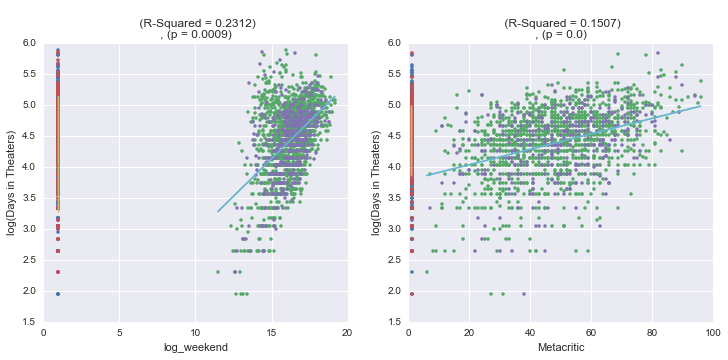
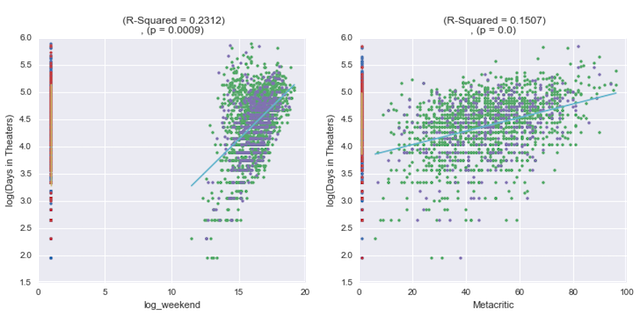
new sizes

Changed region(s): [[0.375, 0.4557, 0.4375, 0.4842]]

diff --git a/_posts/2016-1-29-Some-Movies-Stay-in-Theaters.md b/_posts/2016-1-29-Some-Movies-Stay-in-Theaters.md
@@ -5,8 +5,6 @@ title: Some movies stay in theaters for a long time
 
 First of all, do you know how easy it is to scrape text from an HTML page? [Selenium](http://www.seleniumhq.org/) and [Beautiful Soup](http://www.crummy.com/software/BeautifulSoup/bs4/doc/) make it almost unfair. It helps when the page is built simply, like Box Office Mojo.
 
-<img src='images/posts/02-bom.png' alt='Here's to you, divs, tables, and simple URLs.' width = 500>
-
 ![Here's to you, divs, tables, and simple URLs.](images/posts/02-bom.png)
 
 With that in mind, I pulled data from all 15,000 movies in the [Box Office Mojo](http://www.boxofficemojo.com/movies/alphabetical.htm?letter=A&p=.htm) database. Almost all movies have numbers on box office performance (clearly), open date, close date, oscar recognition, budget, runtime, cast, crew, and size of release.
